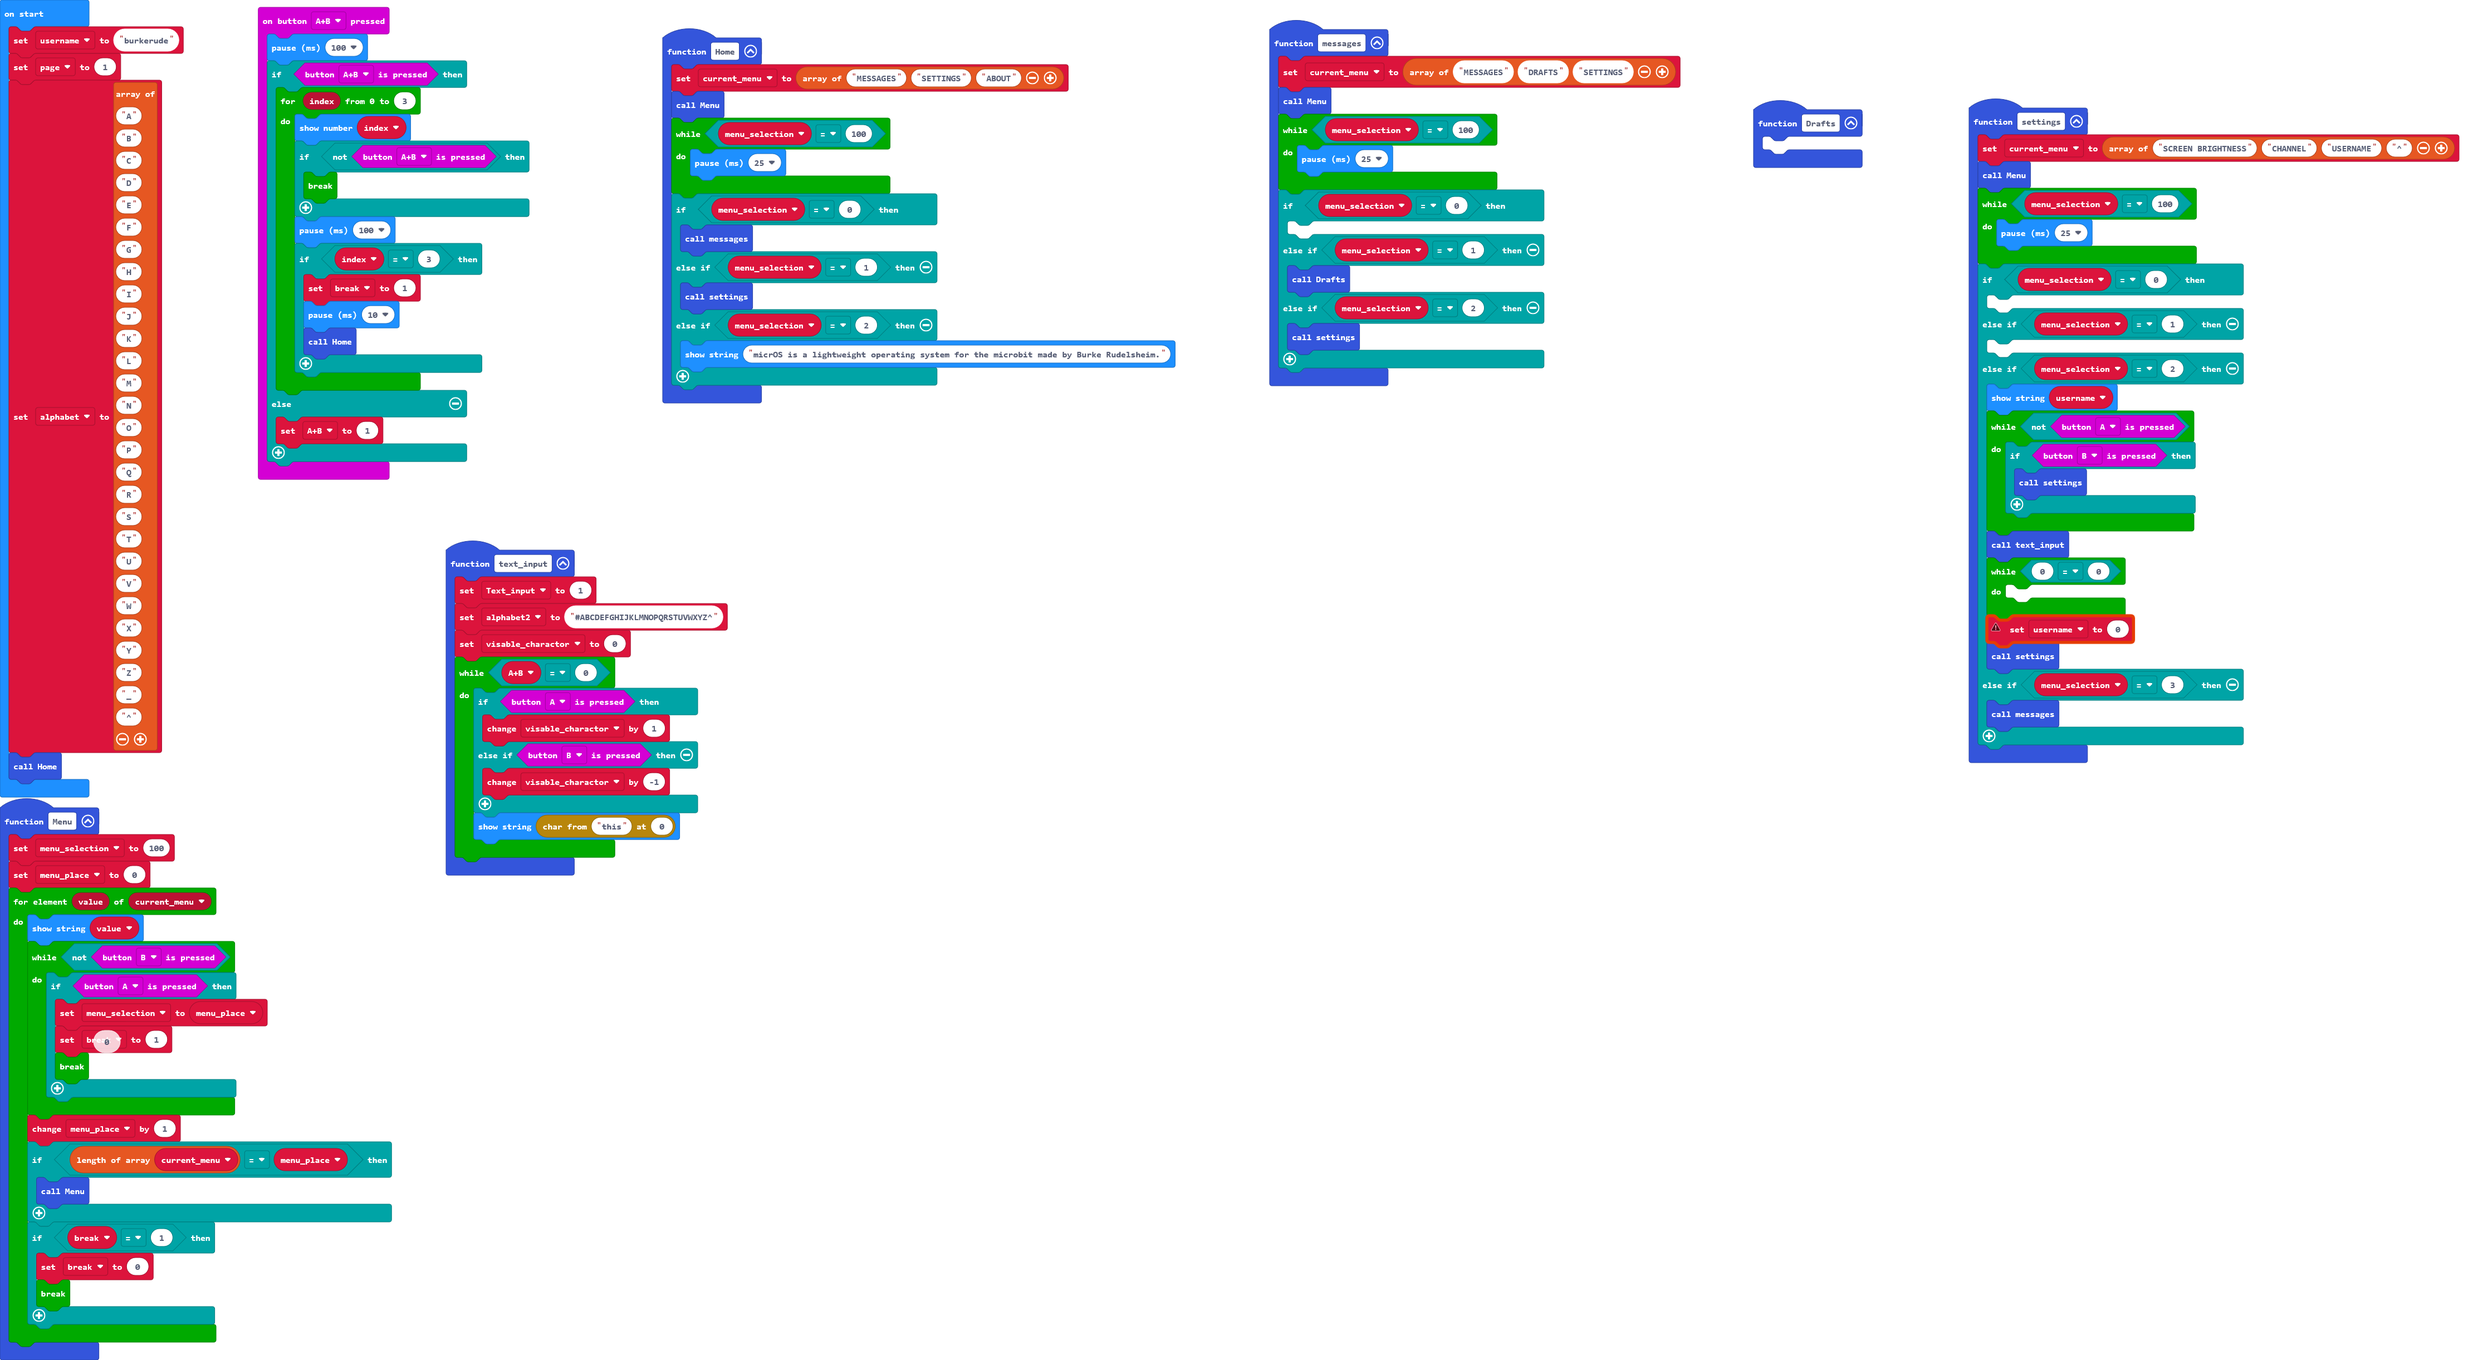
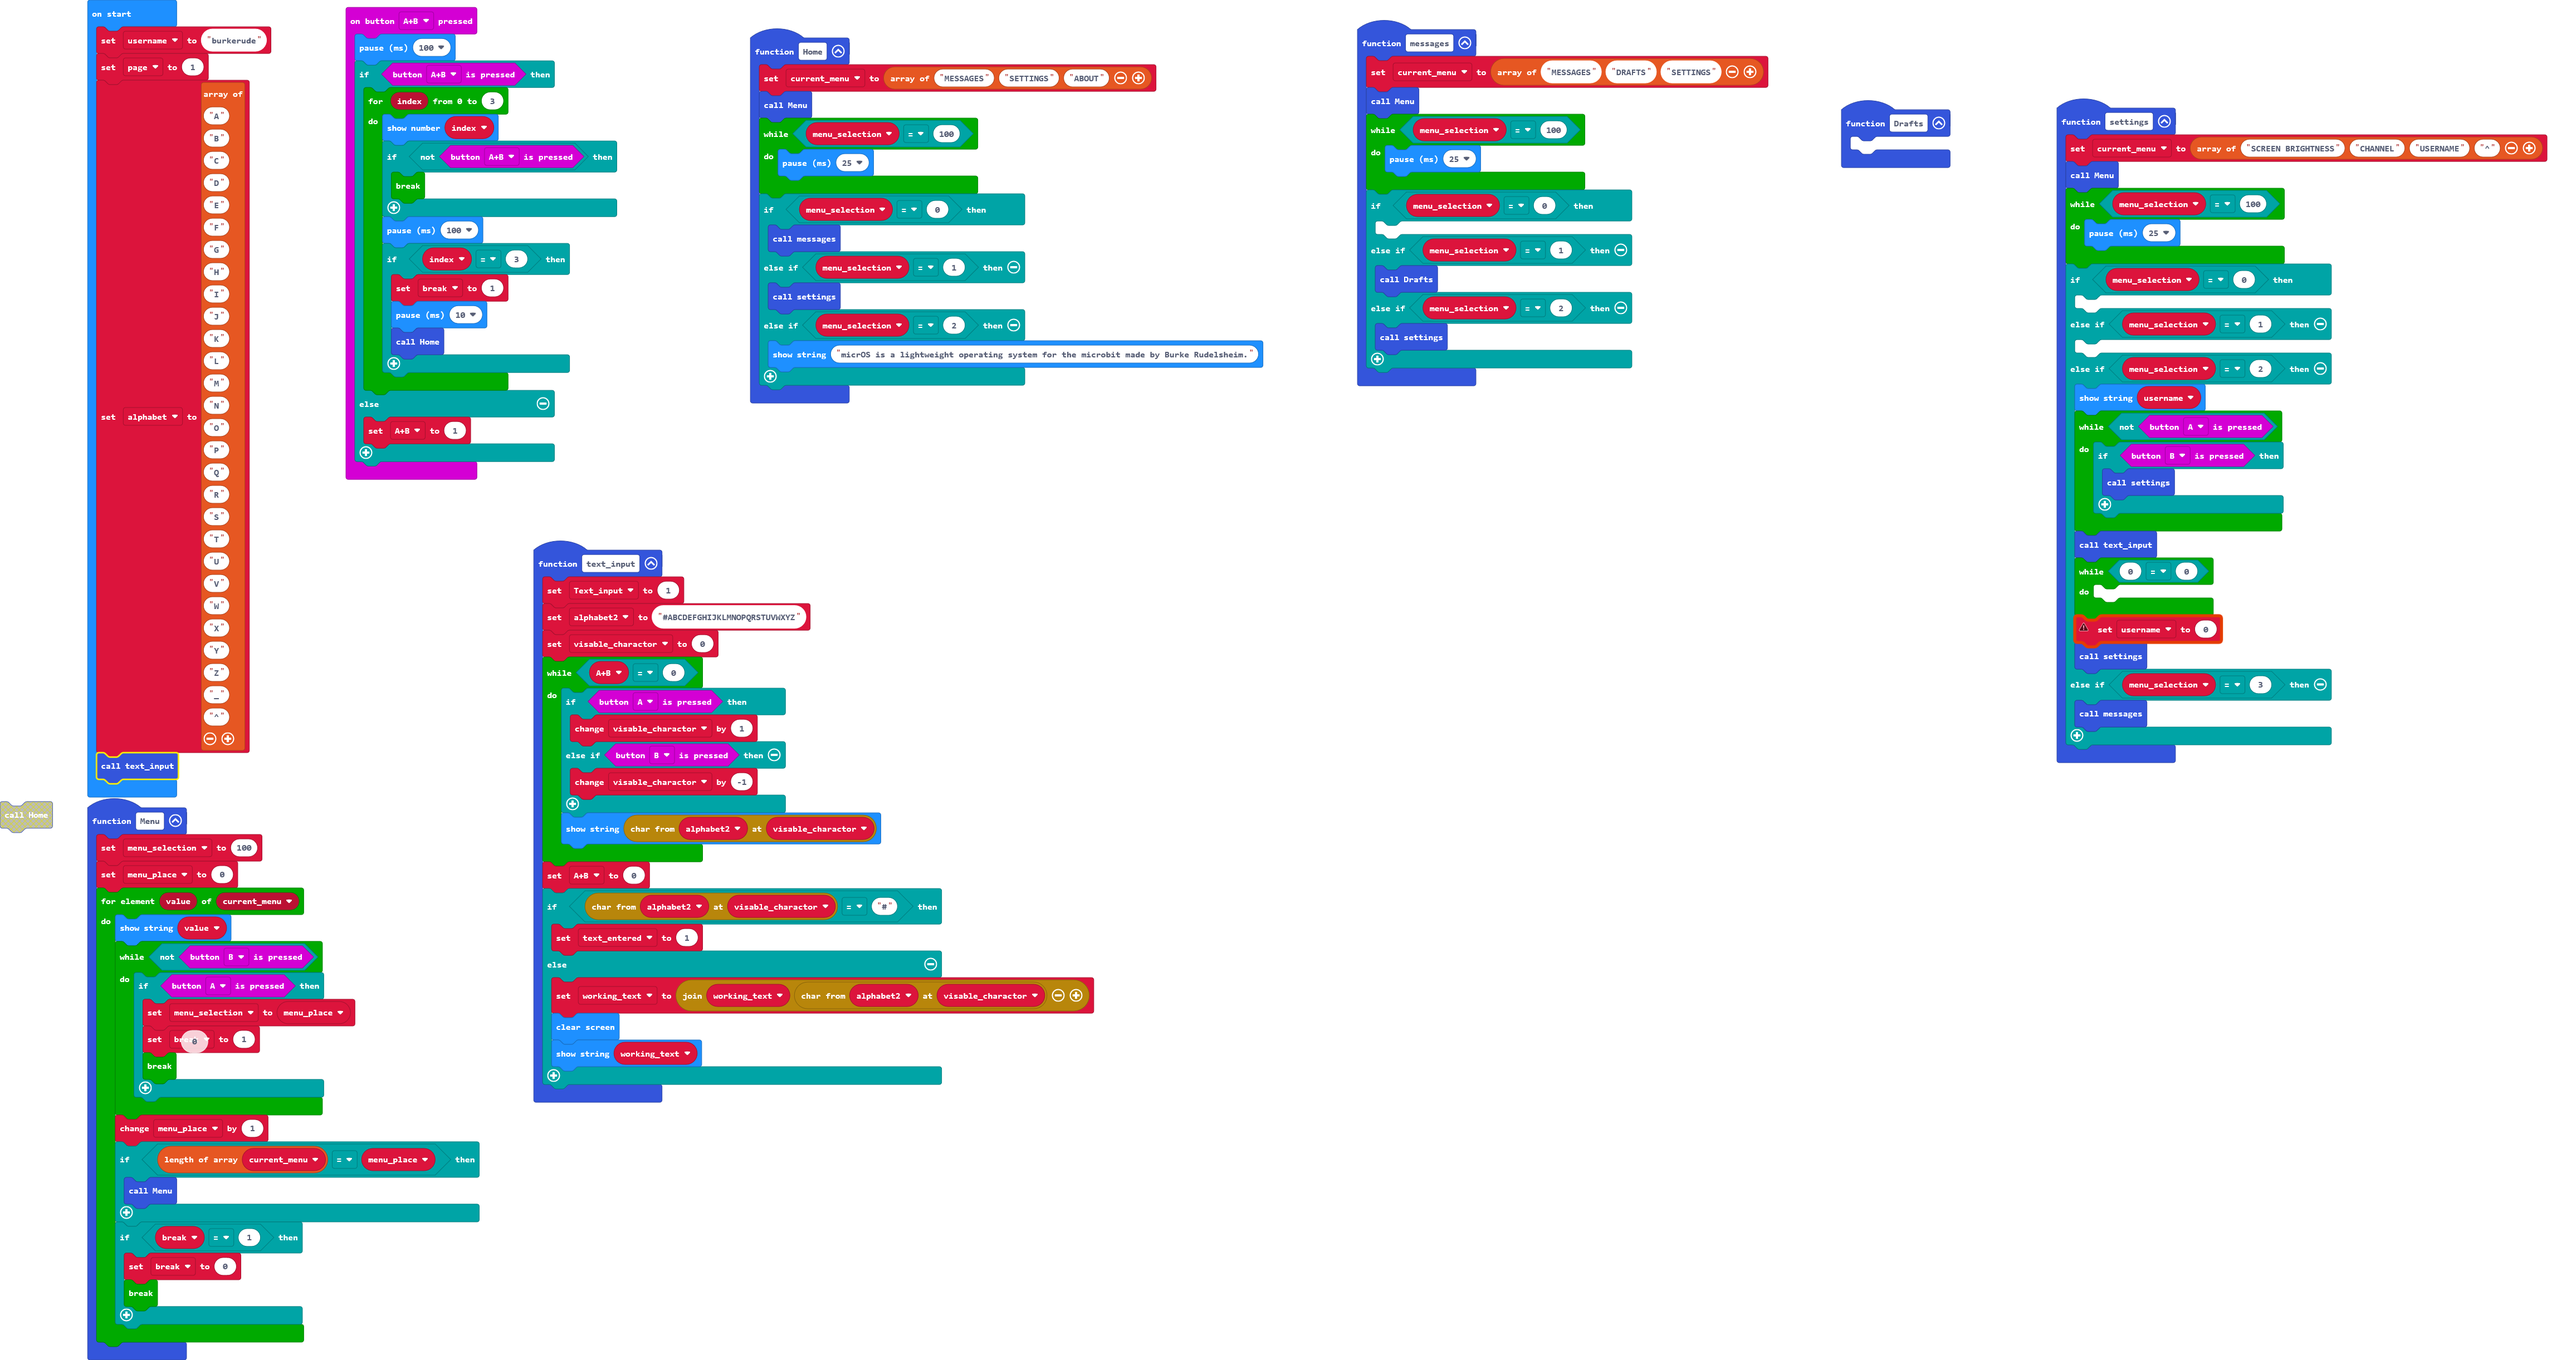
Update main.blocks, main.ts

diff --git a/main.ts b/main.ts
@@ -99,7 +99,7 @@ function Menu () {
 }
 function text_input () {
     Text_input = 1
-    alphabet2 = "#ABCDEFGHIJKLMNOPQRSTUVWXYZ^"
+    alphabet2 = "#ABCDEFGHIJKLMNOPQRSTUVWXYZ"
     visable_charactor = 0
     while (AB == 0) {
         if (input.buttonIsPressed(Button.A)) {
@@ -107,9 +107,19 @@ function text_input () {
         } else if (input.buttonIsPressed(Button.B)) {
             visable_charactor += -1
         }
-        basic.showString("this".charAt(0))
+        basic.showString(alphabet2.charAt(visable_charactor))
+    }
+    AB = 0
+    if (alphabet2.charAt(visable_charactor) == "#") {
+        text_entered = 1
+    } else {
+        working_text = "" + working_text + alphabet2.charAt(visable_charactor)
+        basic.clearScreen()
+        basic.showString("" + (working_text))
     }
 }
+let working_text = ""
+let text_entered = 0
 let visable_charactor = 0
 let alphabet2 = ""
 let Text_input = 0
@@ -122,4 +132,4 @@ let username = ""
 username = "burkerude"
 let page = 1
 let alphabet = ["A", "B", "C", "D", "E", "F", "G", "H", "I", "J", "K", "L", "M", "N", "O", "P", "Q", "R", "S", "T", "U", "V", "W", "X", "Y", "Z", "_", "^"]
-Home()
+text_input()
